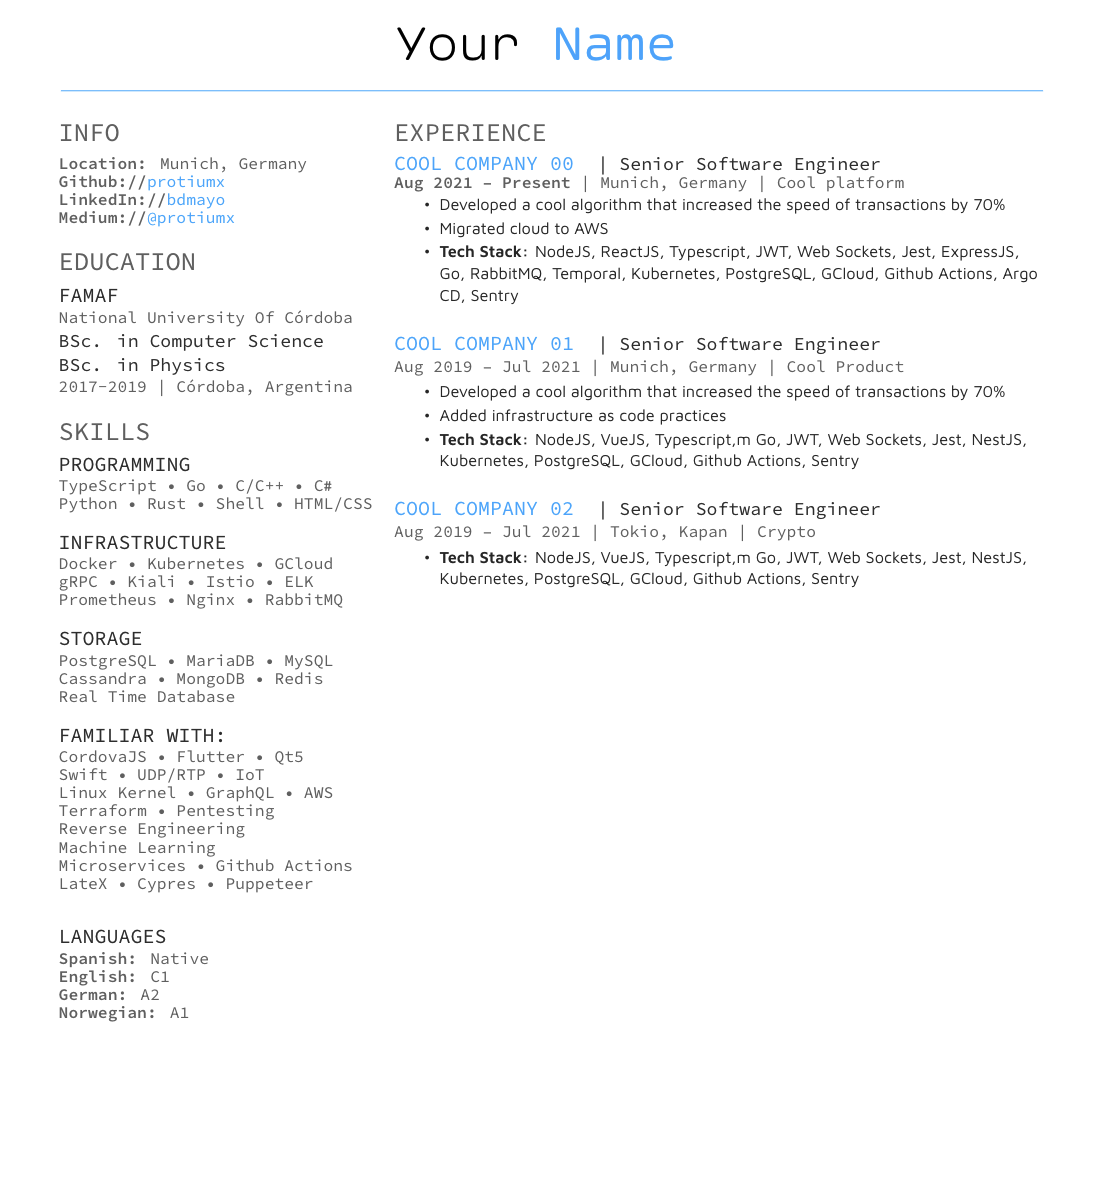
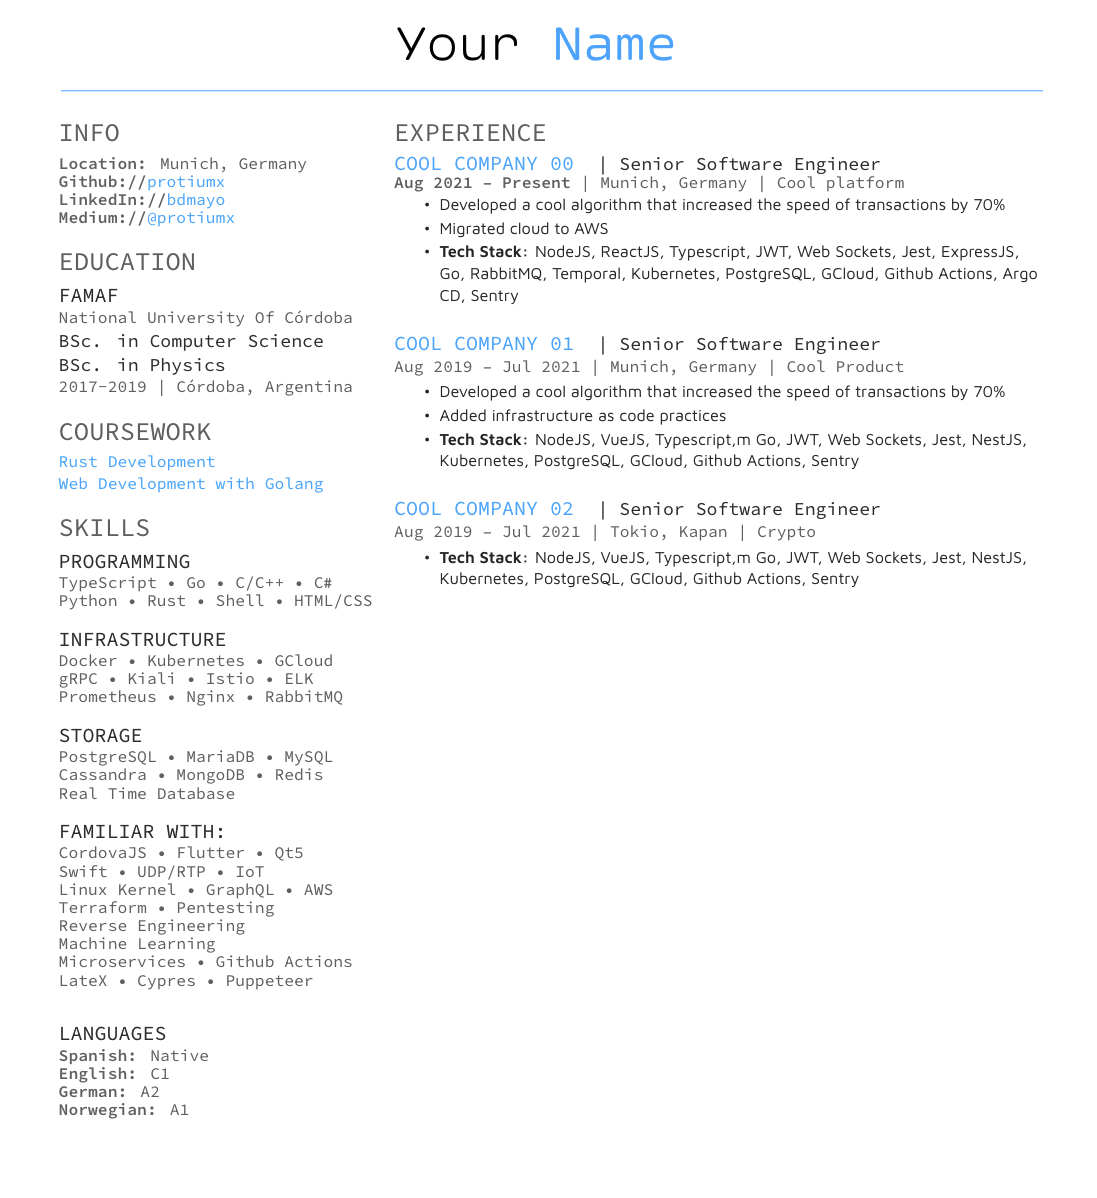
added course work section

Changed region(s): [[0.031, 0.3397, 0.3409, 0.9265], [0.217, 0.803, 0.2789, 0.8339]]

diff --git a/template.tex b/template.tex
@@ -3,16 +3,16 @@
 % LaTeX Template
 % Version 1.0 (16/12/2021)
 % Based on: https://github.com/deedydas/Deedy-Resume
-% 
+%
 % Minimal version
 %%%%%%%%%%%%%%%%%%%%%%%%%%%%%%%%%%%%%%
 
 \documentclass[]{resume}
 \usepackage{fancyhdr}
- 
+
 \pagestyle{fancy}
 \fancyhf{}
- 
+
 \begin{document}
 
 %%%%%%%%%%%%%%%%%%%%%%%%%%%%%%%%%%%%%%
@@ -28,7 +28,7 @@
 %
 %%%%%%%%%%%%%%%%%%%%%%%%%%%%%%%%%%%%%%
 
-\begin{minipage}[t]{0.33\textwidth} 
+\begin{minipage}[t]{0.33\textwidth}
 \ello
 %%%%%%%%%%%%%%%%%%%%%%%%%%%%%%%%%%%%%%
 %     INFO
@@ -46,7 +46,7 @@
 %     EDUCATION
 %%%%%%%%%%%%%%%%%%%%%%%%%%%%%%%%%%%%%%
 
-\section{Education} 
+\section{Education}
 
 \subsection{FaMAF}
 \location{National University Of Córdoba}
@@ -55,6 +55,14 @@ BSc. in Physics}
 \location{
 2017-2019 | Córdoba, Argentina
 }
+
+%%%%%%%%%%%%%%%%%%%%%%%%%%%%%%%%%%%%%%
+%     COURSEWORK
+%%%%%%%%%%%%%%%%%%%%%%%%%%%%%%%%%%%%%%
+\section{COURSEWORK}
+\ello
+\location{\href{https://www.udemy.com/certificate/UC-b9fdc068-526b-4632-b10e-686630a244b3/}{Rust Development}}
+\location{\href{https://www.udemy.com/certificate/UC-53aaefd3-bb3b-4726-9121-a1b8b8b8925e/}{Web Development with Golang}}
 
 %%%%%%%%%%%%%%%%%%%%%%%%%%%%%%%%%%%%%%
 %     SKILLS
@@ -103,9 +111,9 @@ LateX \textbullet{} Cypres \textbullet{} Puppeteer\newline
 %
 %%%%%%%%%%%%%%%%%%%%%%%%%%%%%%%%%%%%%%
 
-\end{minipage} 
+\end{minipage}
 \hfill
-\begin{minipage}[t]{0.66\textwidth} 
+\begin{minipage}[t]{0.66\textwidth}
 
 %%%%%%%%%%%%%%%%%%%%%%%%%%%%%%%%%%%%%%
 %     EXPERIENCE
